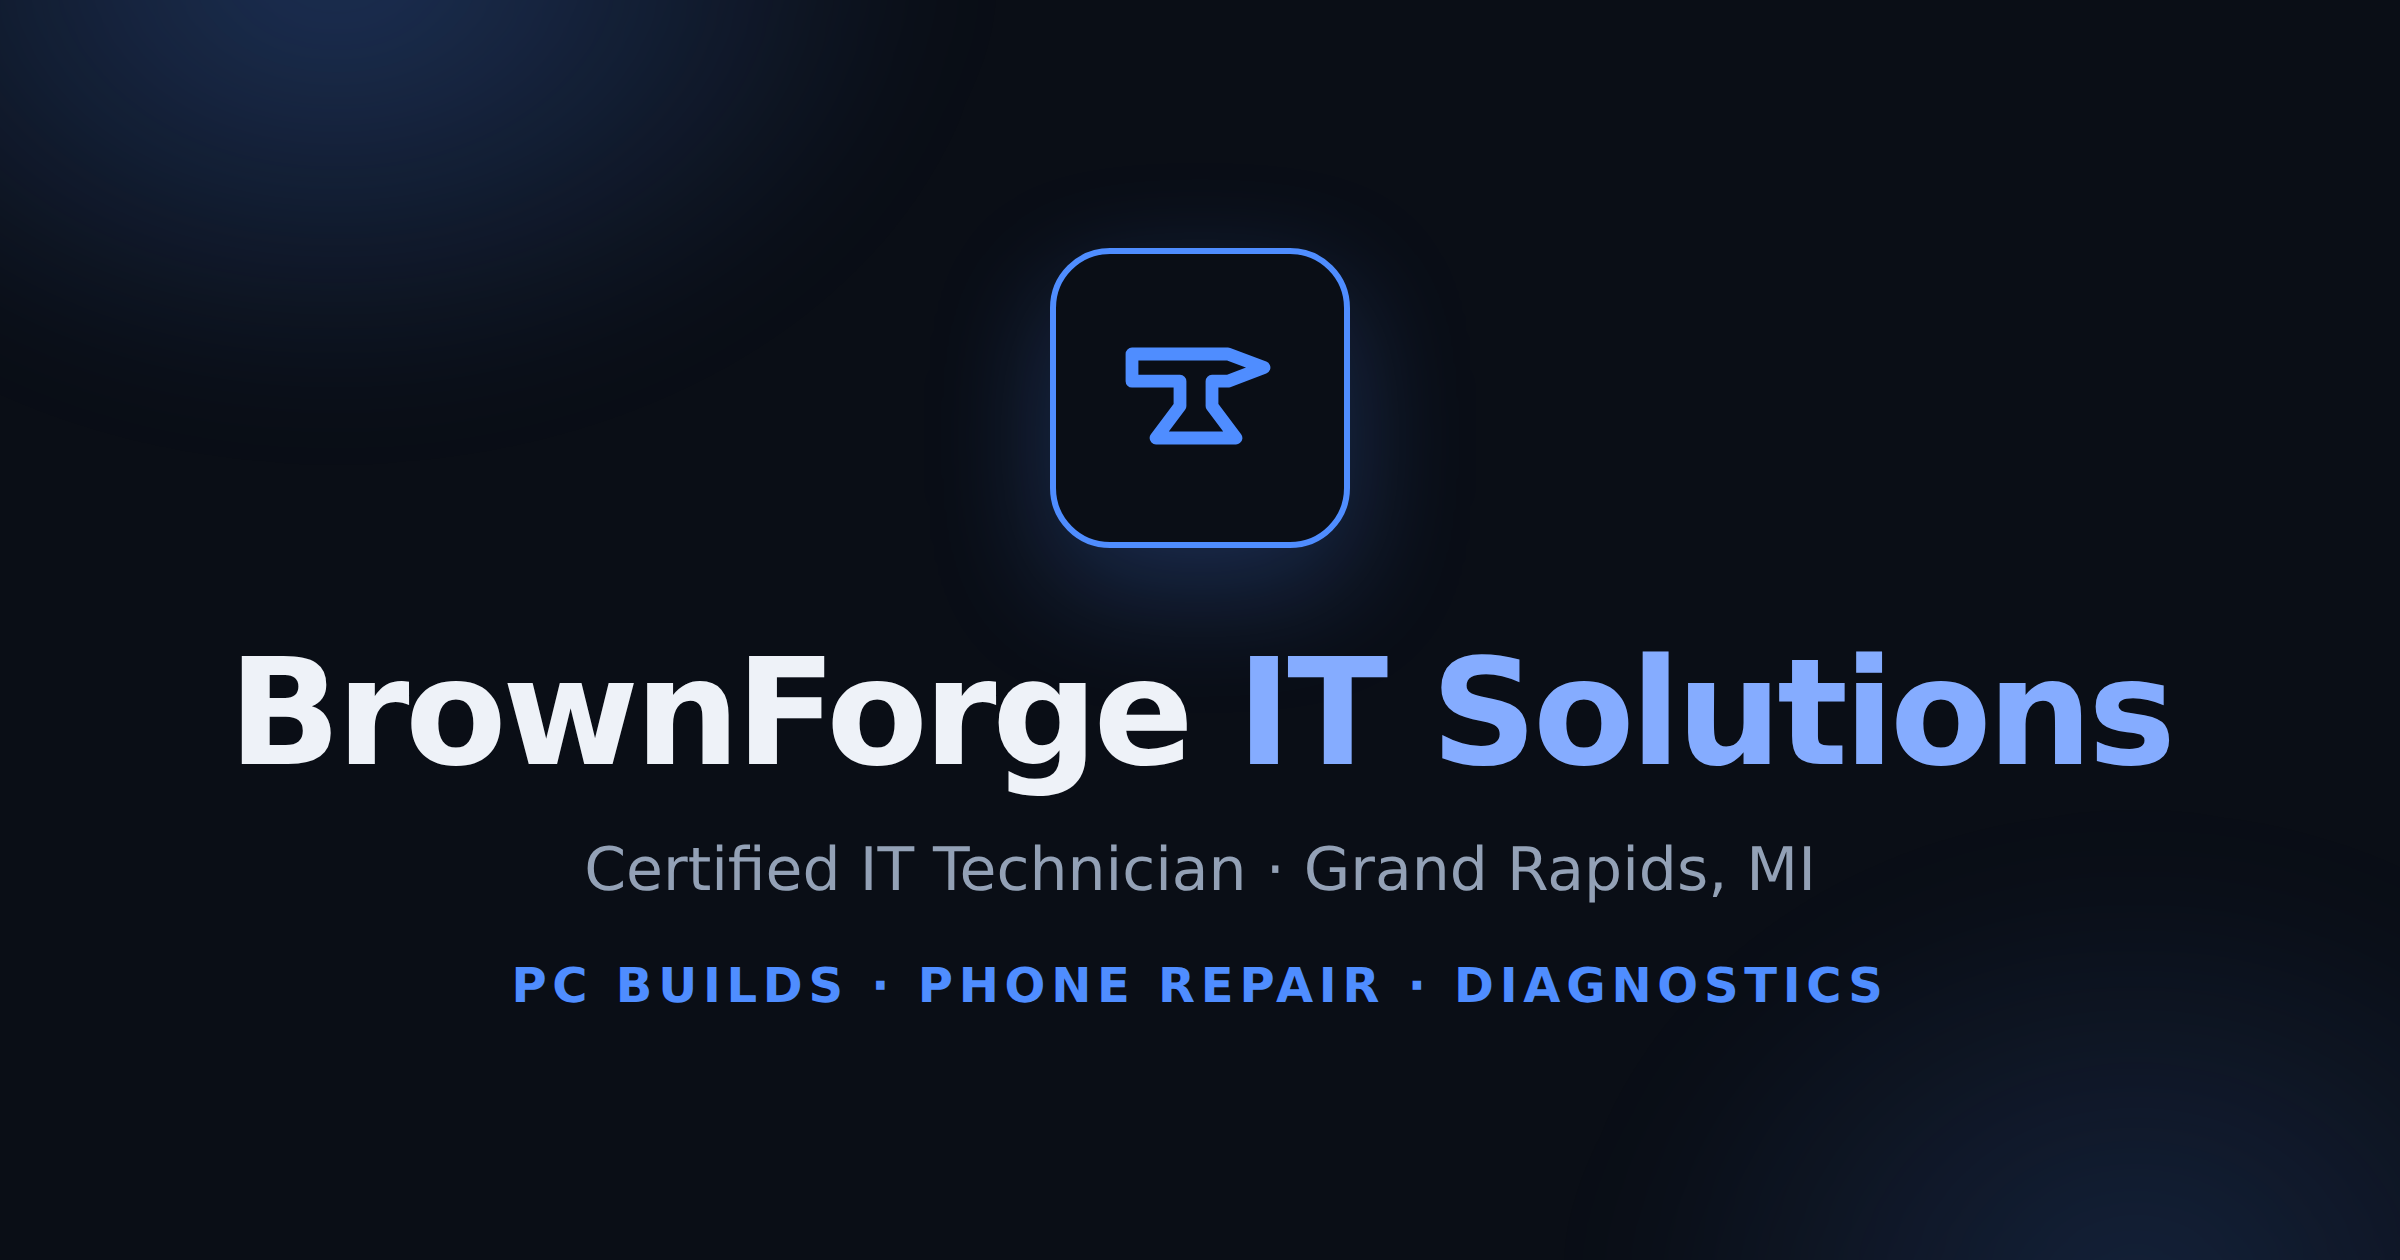
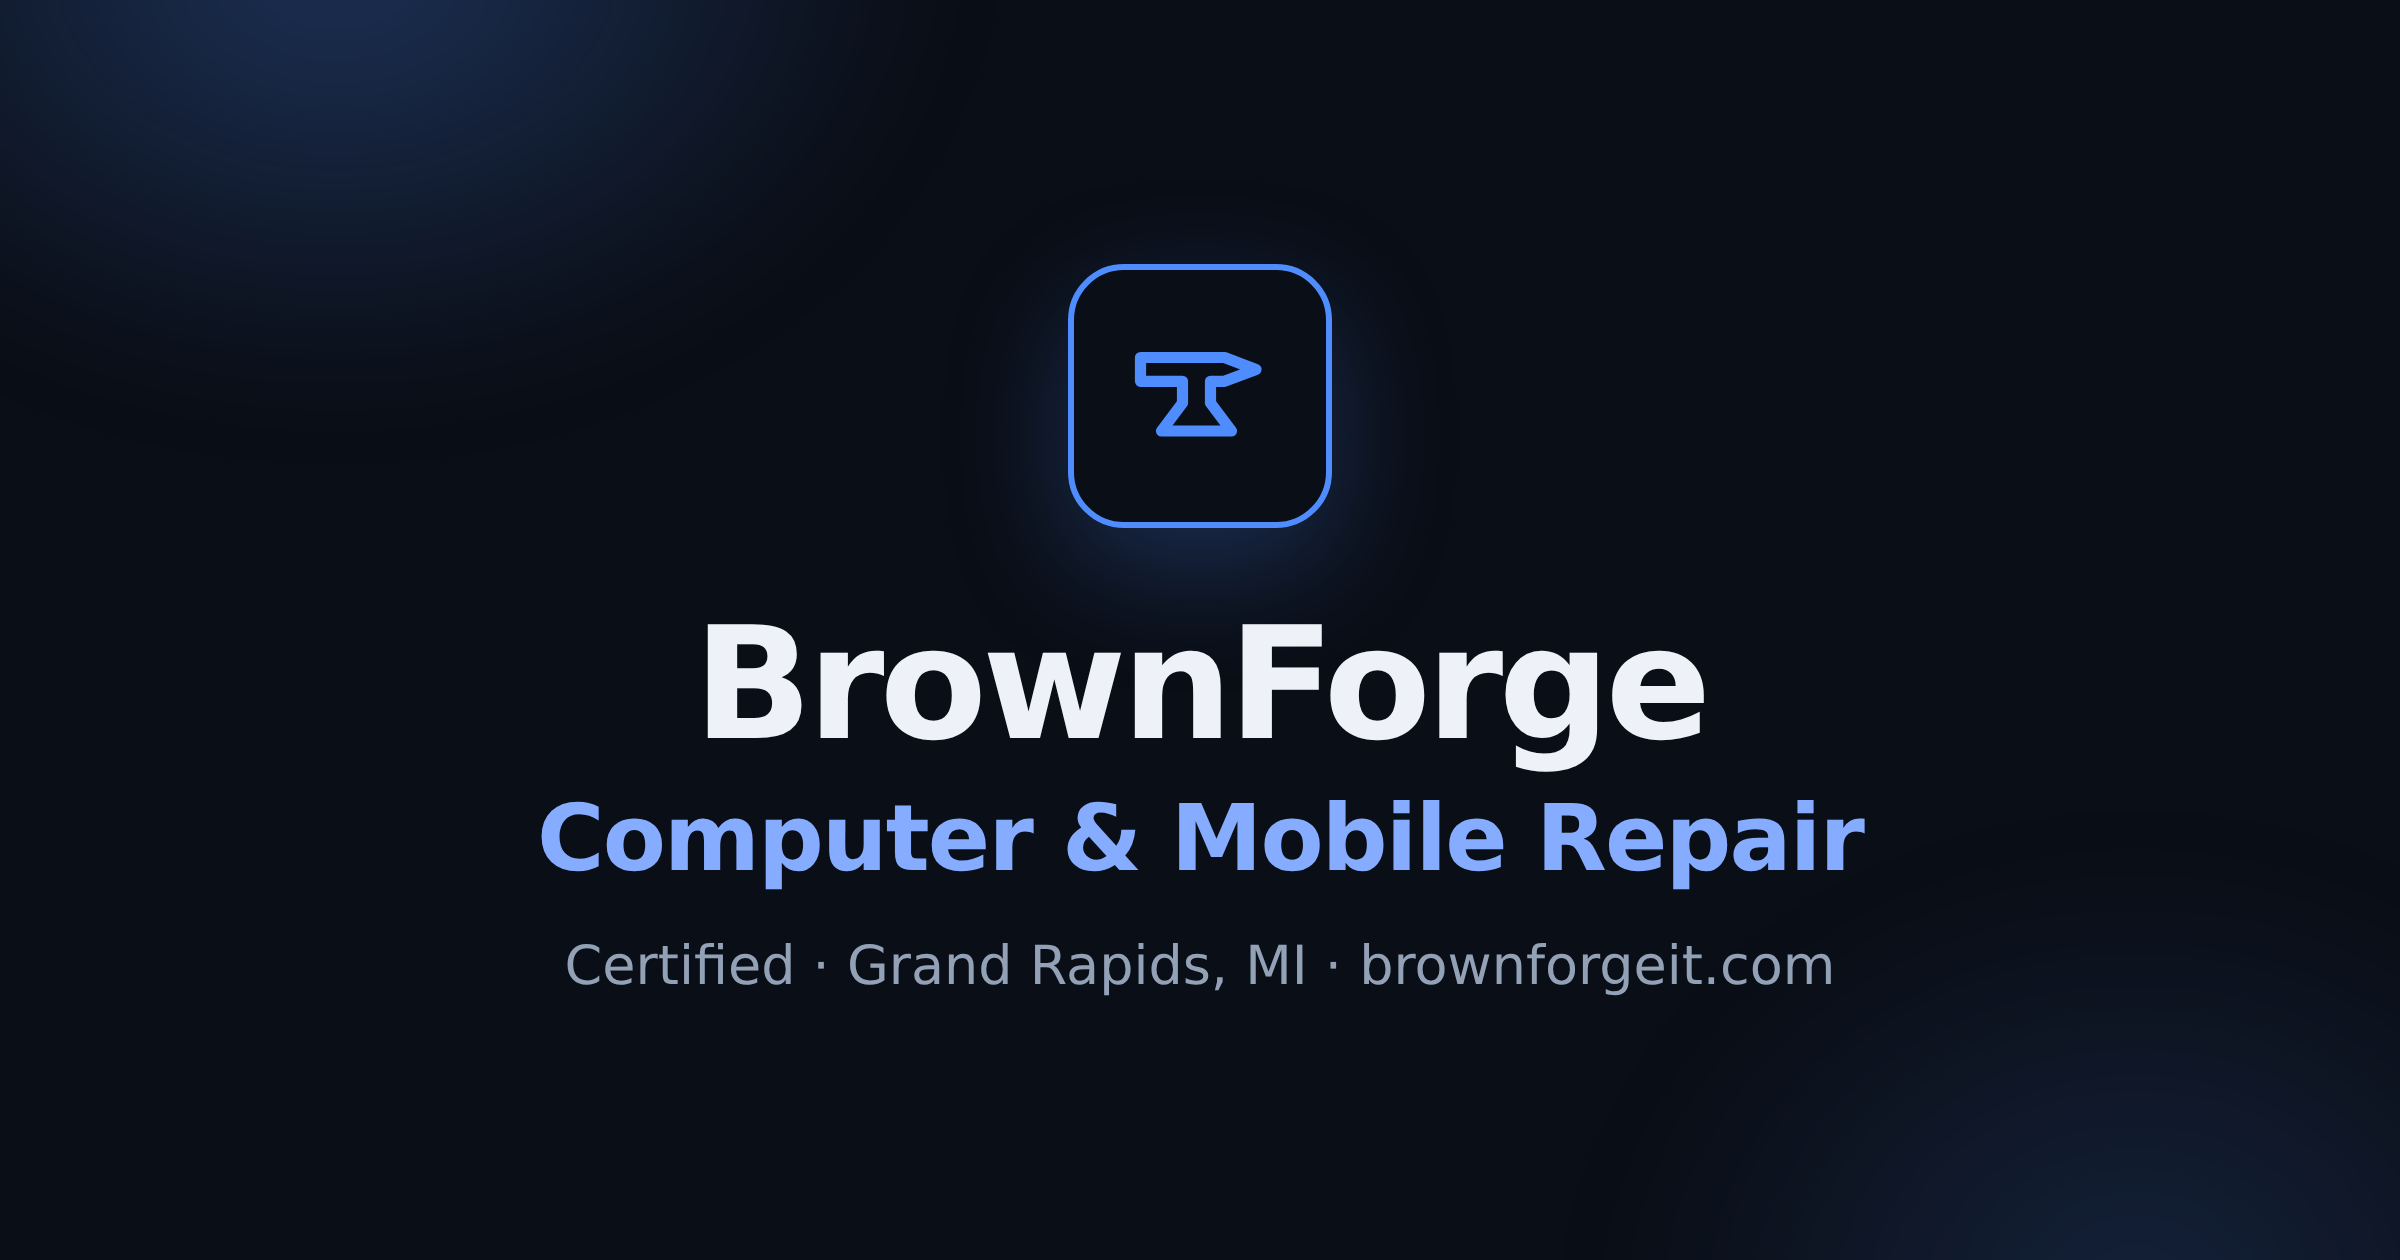
Rebrand to BrownForge Computer & Mobile Repair
Rename the business across all pages (titles, header wordmark, meta/OG
tags, README), stack the longer name in the header lockup, and regenerate
the link-preview card with the new name.

Claude-Session: https://claude.ai/code/session_015obrEKRQqj4iPo9EC8GnYV

Changed region(s): [[0.0938, 0.4952, 0.9062, 0.7119], [0.2188, 0.7429, 0.7812, 0.8048], [0.4375, 0.1857, 0.5625, 0.4333]]

diff --git a/index.html b/index.html
@@ -7,19 +7,19 @@
   <!-- ============================================================= -->
   <!--  EDIT ME:  Your name / brand, and the one-line description.   -->
   <!-- ============================================================= -->
-  <title>BrownForge IT Solutions — Grand Rapids IT Technician</title>
-  <meta name="description" content="BrownForge IT Solutions — certified IT technician in Grand Rapids, MI. Custom PC builds, phone repair, and diagnostics, explained in plain English." />
+  <title>BrownForge Computer &amp; Mobile Repair — Grand Rapids, MI</title>
+  <meta name="description" content="BrownForge Computer &amp; Mobile Repair — certified technician in Grand Rapids, MI. Custom PC builds, phone repair, and computer diagnostics, explained in plain English." />
 
   <!-- Social / link-preview card -->
-  <meta property="og:site_name" content="BrownForge IT Solutions" />
-  <meta property="og:title" content="BrownForge IT Solutions" />
-  <meta property="og:description" content="Certified IT technician in Grand Rapids, MI. Custom PC builds, phone repair, and diagnostics — explained in plain English." />
+  <meta property="og:site_name" content="BrownForge Computer &amp; Mobile Repair" />
+  <meta property="og:title" content="BrownForge Computer &amp; Mobile Repair" />
+  <meta property="og:description" content="Certified computer &amp; phone repair in Grand Rapids, MI. Custom PC builds, screen &amp; battery repair, and diagnostics — explained in plain English." />
   <meta property="og:url" content="https://brownforgeit.com/" />
   <meta property="og:type" content="website" />
   <meta property="og:image" content="https://brownforgeit.com/assets/og-image.png" />
   <meta property="og:image:width" content="1200" />
   <meta property="og:image:height" content="630" />
-  <meta property="og:image:alt" content="BrownForge IT Solutions logo" />
+  <meta property="og:image:alt" content="BrownForge Computer &amp; Mobile Repair logo" />
   <meta name="twitter:card" content="summary_large_image" />
   <meta name="twitter:image" content="https://brownforgeit.com/assets/og-image.png" />
 
@@ -32,13 +32,13 @@
   <!-- Header / nav -->
   <header class="site-header" id="top">
     <div class="wrap header-inner">
-      <a class="brand" href="#top" aria-label="BrownForge IT Solutions — home">
+      <a class="brand" href="#top" aria-label="BrownForge Computer &amp; Mobile Repair — home">
         <span class="brand-mark" aria-hidden="true">
           <svg viewBox="0 0 24 24" fill="none" stroke="currentColor" stroke-width="1.6" stroke-linecap="round" stroke-linejoin="round">
             <path d="M3.5 6.5 H15.5 L20 8.2 L15.5 9.9 H13.5 V13 L16.5 17 H6.5 L9.5 13 V9.9 H3.5 Z"/>
           </svg>
         </span>
-        <span class="brand-name">BrownForge <span class="brand-sub">IT&nbsp;Solutions</span></span>
+        <span class="brand-name">BrownForge <span class="brand-sub">Computer &amp; Mobile Repair</span></span>
       </a>
 
       <nav class="nav" id="nav" aria-label="Primary">

diff --git a/diagnostics.html b/diagnostics.html
@@ -3,7 +3,7 @@
 <head>
   <meta charset="UTF-8" />
   <meta name="viewport" content="width=device-width, initial-scale=1" />
-  <title>Diagnostics &amp; Advice — BrownForge IT Solutions</title>
+  <title>Diagnostics &amp; Advice — BrownForge Computer &amp; Mobile Repair</title>
   <meta name="description" content="Computer diagnostics and honest advice in Grand Rapids, MI. I find the real cause, explain it in plain English, and can source and fit the part if you want." />
   <meta name="theme-color" content="#0ea5e9" media="(prefers-color-scheme: light)" />
   <meta name="theme-color" content="#0b1220" media="(prefers-color-scheme: dark)" />
@@ -13,13 +13,13 @@
 <body>
   <header class="site-header" id="top">
     <div class="wrap header-inner">
-      <a class="brand" href="index.html" aria-label="BrownForge IT Solutions — home">
+      <a class="brand" href="index.html" aria-label="BrownForge Computer &amp; Mobile Repair — home">
         <span class="brand-mark" aria-hidden="true">
           <svg viewBox="0 0 24 24" fill="none" stroke="currentColor" stroke-width="1.6" stroke-linecap="round" stroke-linejoin="round">
             <path d="M3.5 6.5 H15.5 L20 8.2 L15.5 9.9 H13.5 V13 L16.5 17 H6.5 L9.5 13 V9.9 H3.5 Z"/>
           </svg>
         </span>
-        <span class="brand-name">BrownForge <span class="brand-sub">IT&nbsp;Solutions</span></span>
+        <span class="brand-name">BrownForge <span class="brand-sub">Computer &amp; Mobile Repair</span></span>
       </a>
       <nav class="nav" id="nav" aria-label="Primary">
         <a href="index.html#services">Services</a>

diff --git a/phone-repair.html b/phone-repair.html
@@ -3,7 +3,7 @@
 <head>
   <meta charset="UTF-8" />
   <meta name="viewport" content="width=device-width, initial-scale=1" />
-  <title>Phone Repair — BrownForge IT Solutions</title>
+  <title>Phone Repair — BrownForge Computer &amp; Mobile Repair</title>
   <meta name="description" content="Phone repair in Grand Rapids, MI — cracked screens, battery replacement, and charging issues. Clear quote up front, data-safe handling, by a certified technician." />
   <meta name="theme-color" content="#0ea5e9" media="(prefers-color-scheme: light)" />
   <meta name="theme-color" content="#0b1220" media="(prefers-color-scheme: dark)" />
@@ -13,13 +13,13 @@
 <body>
   <header class="site-header" id="top">
     <div class="wrap header-inner">
-      <a class="brand" href="index.html" aria-label="BrownForge IT Solutions — home">
+      <a class="brand" href="index.html" aria-label="BrownForge Computer &amp; Mobile Repair — home">
         <span class="brand-mark" aria-hidden="true">
           <svg viewBox="0 0 24 24" fill="none" stroke="currentColor" stroke-width="1.6" stroke-linecap="round" stroke-linejoin="round">
             <path d="M3.5 6.5 H15.5 L20 8.2 L15.5 9.9 H13.5 V13 L16.5 17 H6.5 L9.5 13 V9.9 H3.5 Z"/>
           </svg>
         </span>
-        <span class="brand-name">BrownForge <span class="brand-sub">IT&nbsp;Solutions</span></span>
+        <span class="brand-name">BrownForge <span class="brand-sub">Computer &amp; Mobile Repair</span></span>
       </a>
       <nav class="nav" id="nav" aria-label="Primary">
         <a href="index.html#services">Services</a>

diff --git a/pc-builds.html b/pc-builds.html
@@ -3,7 +3,7 @@
 <head>
   <meta charset="UTF-8" />
   <meta name="viewport" content="width=device-width, initial-scale=1" />
-  <title>Custom PC Builds — BrownForge IT Solutions</title>
+  <title>Custom PC Builds — BrownForge Computer &amp; Mobile Repair</title>
   <meta name="description" content="Custom gaming and work PC builds in Grand Rapids, MI. Built around your budget and needs by a certified technician — clear quote, tested, and guaranteed." />
   <meta name="theme-color" content="#0ea5e9" media="(prefers-color-scheme: light)" />
   <meta name="theme-color" content="#0b1220" media="(prefers-color-scheme: dark)" />
@@ -13,13 +13,13 @@
 <body>
   <header class="site-header" id="top">
     <div class="wrap header-inner">
-      <a class="brand" href="index.html" aria-label="BrownForge IT Solutions — home">
+      <a class="brand" href="index.html" aria-label="BrownForge Computer &amp; Mobile Repair — home">
         <span class="brand-mark" aria-hidden="true">
           <svg viewBox="0 0 24 24" fill="none" stroke="currentColor" stroke-width="1.6" stroke-linecap="round" stroke-linejoin="round">
             <path d="M3.5 6.5 H15.5 L20 8.2 L15.5 9.9 H13.5 V13 L16.5 17 H6.5 L9.5 13 V9.9 H3.5 Z"/>
           </svg>
         </span>
-        <span class="brand-name">BrownForge <span class="brand-sub">IT&nbsp;Solutions</span></span>
+        <span class="brand-name">BrownForge <span class="brand-sub">Computer &amp; Mobile Repair</span></span>
       </a>
       <nav class="nav" id="nav" aria-label="Primary">
         <a href="index.html#services">Services</a>

diff --git a/thanks.html b/thanks.html
@@ -3,7 +3,7 @@
 <head>
   <meta charset="UTF-8" />
   <meta name="viewport" content="width=device-width, initial-scale=1" />
-  <title>Message sent — BrownForge IT Solutions</title>
+  <title>Message sent — BrownForge Computer &amp; Mobile Repair</title>
   <meta name="robots" content="noindex" />
   <meta name="theme-color" content="#0a0e16" />
   <link rel="icon" href="assets/favicon.svg" type="image/svg+xml" />
@@ -12,13 +12,13 @@
 <body>
   <header class="site-header" id="top">
     <div class="wrap header-inner">
-      <a class="brand" href="index.html" aria-label="BrownForge IT Solutions — home">
+      <a class="brand" href="index.html" aria-label="BrownForge Computer &amp; Mobile Repair — home">
         <span class="brand-mark" aria-hidden="true">
           <svg viewBox="0 0 24 24" fill="none" stroke="currentColor" stroke-width="1.6" stroke-linecap="round" stroke-linejoin="round">
             <path d="M3.5 6.5 H15.5 L20 8.2 L15.5 9.9 H13.5 V13 L16.5 17 H6.5 L9.5 13 V9.9 H3.5 Z"/>
           </svg>
         </span>
-        <span class="brand-name">BrownForge <span class="brand-sub">IT&nbsp;Solutions</span></span>
+        <span class="brand-name">BrownForge <span class="brand-sub">Computer &amp; Mobile Repair</span></span>
       </a>
       <nav class="nav" id="nav" aria-label="Primary">
         <a href="index.html#services">Services</a>

diff --git a/styles.css b/styles.css
@@ -79,8 +79,8 @@ code {
   flex: none;
 }
 .brand-mark svg { width: 22px; height: 22px; display: block; }
-.brand-name { font-size: 1.05rem; line-height: 1.05; }
-.brand-sub { color: var(--accent-strong); font-weight: 600; }
+.brand-name { display: flex; flex-direction: column; font-size: 1.05rem; line-height: 1.08; }
+.brand-sub { color: var(--accent-strong); font-weight: 600; font-size: .68rem; letter-spacing: .02em; }
 
 .nav { display: flex; align-items: center; gap: 6px; }
 .nav a {

diff --git a/README.md b/README.md
@@ -1,4 +1,4 @@
-# BrownForge IT Solutions — website
+# BrownForge Computer & Mobile Repair — website
 
 A small, self-contained static website to advertise IT services and show a
 portfolio. No build step, no frameworks, no dependencies — just open
